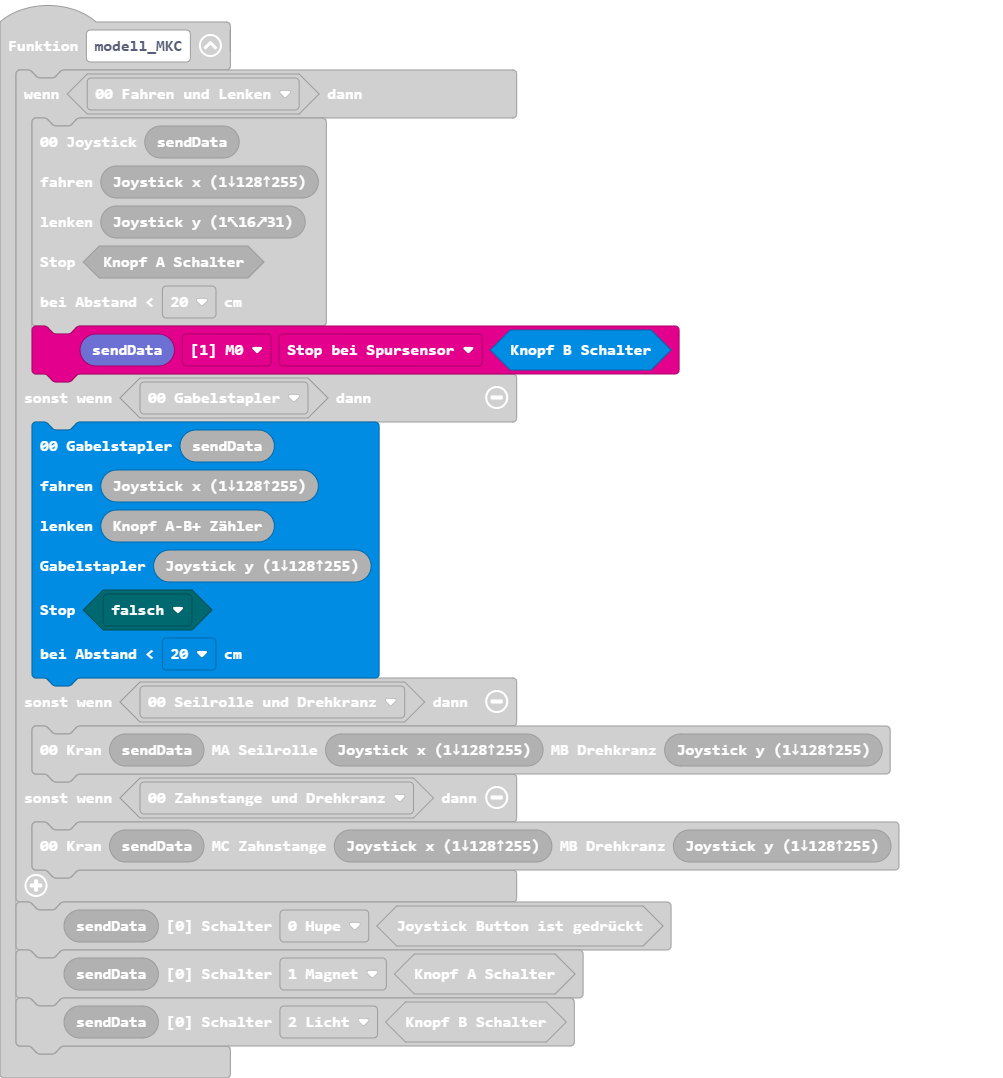
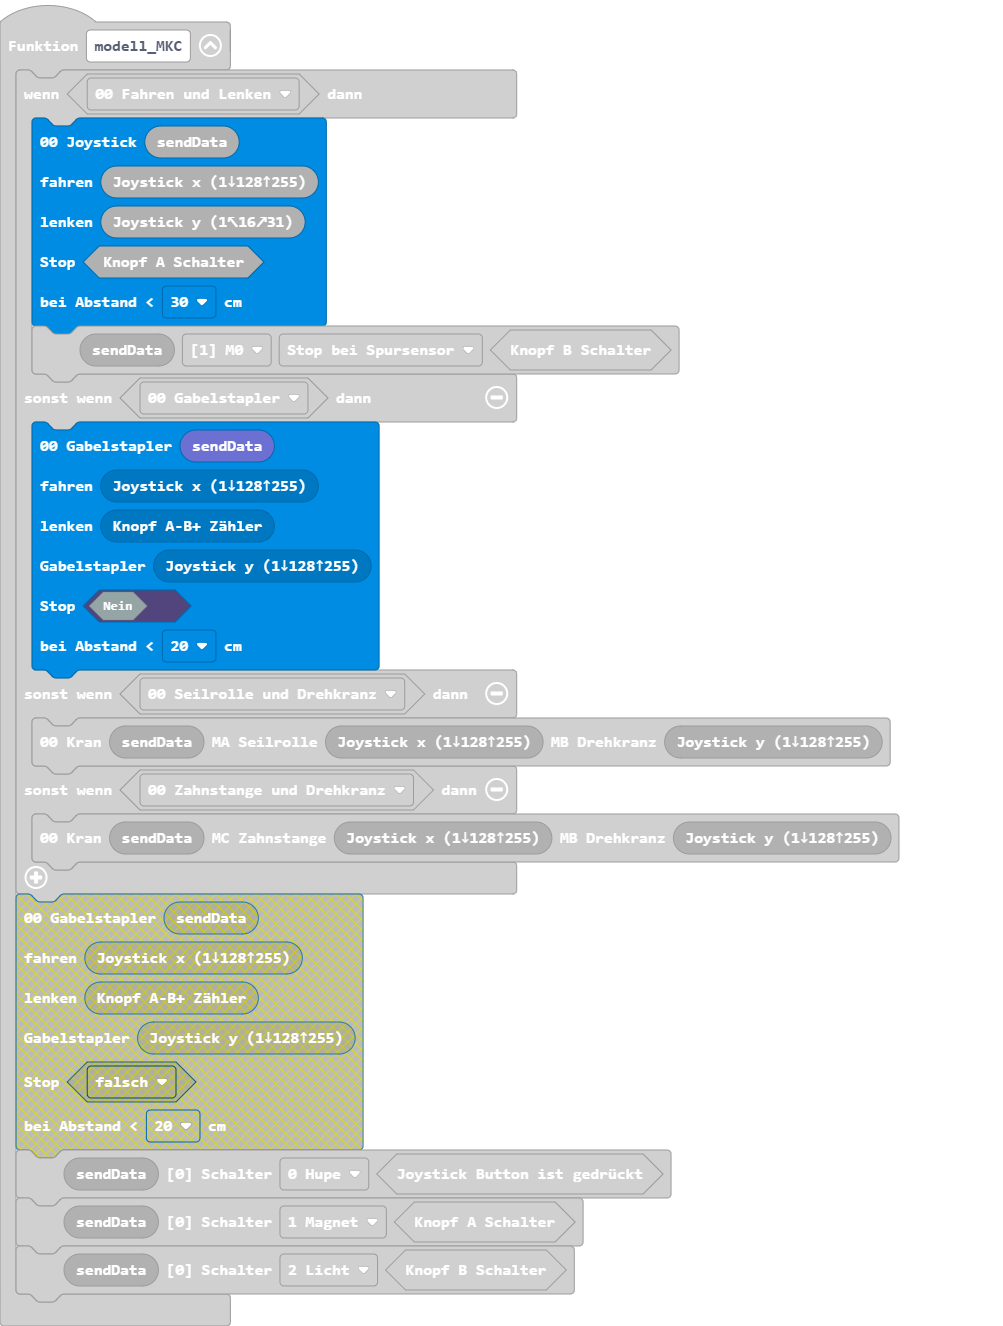
Aktualisiere pxt.json, main.blocks, main.ts

diff --git a/main.ts b/main.ts
@@ -67,7 +67,7 @@ function modell_MKC () {
         sender.sender_xmotor(),
         sender.sender_servo16(),
         sender.sender_ButtonA_Switch(),
-        btf.e3Abstand.u2
+        btf.e3Abstand.u3
         )
         btf.setSensor(btf.btf_sendBuffer19(), btf.eBufferPointer.m0, btf.eSensor.b5Spur, sender.sender_ButtonB_Switch())
     } else if (sender.isFunktion(sender.eFunktion.m0_m1_s0)) {
